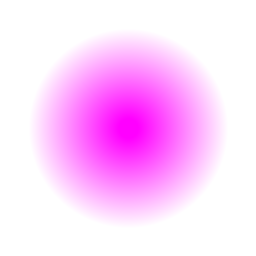
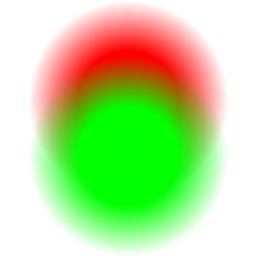
Add actual blending mode

diff --git a/Pareidolic-Revamped/drawinghandler.py b/Pareidolic-Revamped/drawinghandler.py
@@ -27,11 +27,18 @@ class Drawing():
                 if x >= 0 and x < self._width and y >= 0 and y < self._height:
                     weight = brush[i,j]/255.
                     weighted_color = (color[0], color[1], color[2], int(color[3]*weight))
-                    #print(weight)
                     self._data[x,y] = blendRGBA(weighted_color, self._data[x,y])
 
 def blendRGBA(rgba_new, rgba_base):
-    return rgba_new
+    if (rgba_new[3] == 0 and rgba_base[3] == 0): #handle an ugly divide by 0 err
+        return (0,0,0,0)
+    a1 = rgba_new[3] / 255.
+    a2 = rgba_base[3] / 255.
+    alpha = a1 + a2 - a1*a2
+    col = [0,0,0]
+    for i in range(3):
+        col[i] = (rgba_new[i]*a1 + rgba_base[i]*a2*(1-a1))/(alpha)
+    return (col[0], col[1], col[2], alpha*255)
 
 def generateBrush(radius, hardness):
     def getWeight(x,y, rad=3, hard=0.75):
@@ -47,6 +54,7 @@ def generateBrush(radius, hardness):
 
 if __name__ == '__main__':
     dr = Drawing()
-    dr.applyBrush((128,128), (255,0,255,255),(100),0.1)
+    dr.applyBrush((100,128), (255,0,0,255),(100),.5)
+    dr.applyBrush((256-100,128), (0,255,0,255),(100),.5)
     im = dr.toImage()
     im.save('asdf.png', "PNG")
